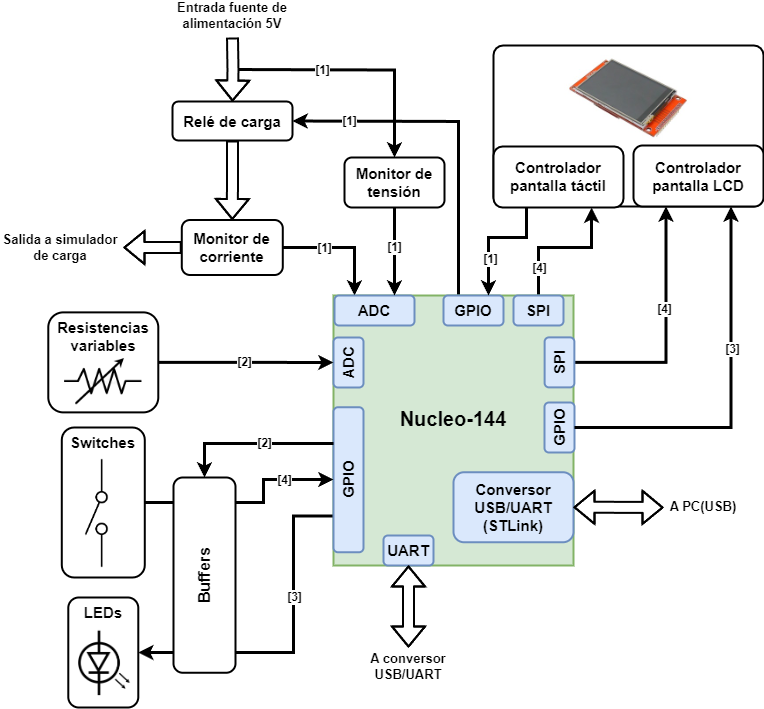
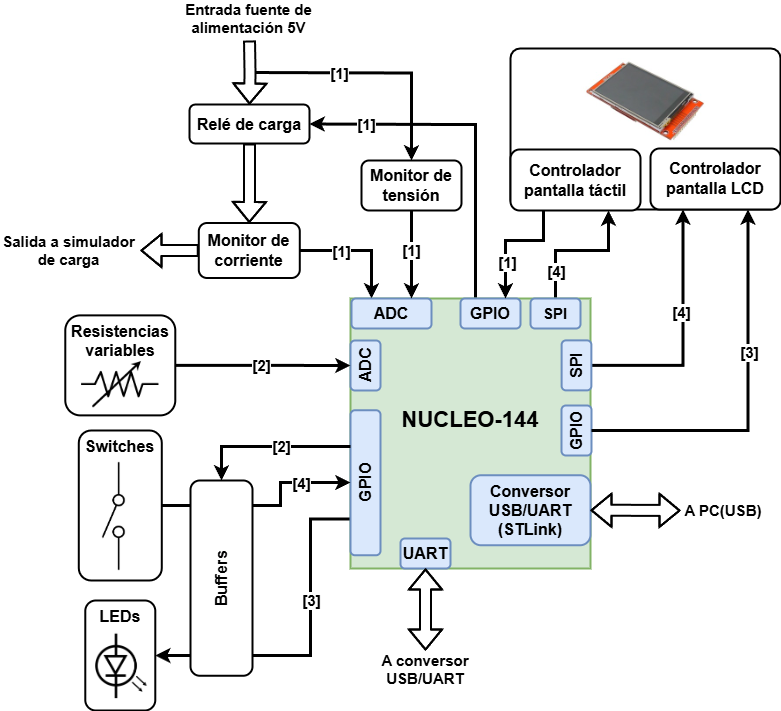
agregadas algunas correcciones de Celeste

Changed region(s): [[0.0, 0.0, 1.0, 1.0]]

diff --git a/Chapters/Chapter1.tex b/Chapters/Chapter1.tex
@@ -26,7 +26,9 @@ En este capítulo se explican las causas que dan origen al dispositivo desarroll
 
 La creciente demanda de mayores velocidades de transmisión de información en el ámbito aeroespacial, combinada con las limitaciones de la radiofrecuencia, favorecen el surgimiento de nuevas empresas enfocadas en el desarrollo de nuevas tecnologías capaces de superar estas barreras. Tal es el caso de la empresa Skyloom Global, que propone la creación de una red de satélites de órbita baja (LEO, del inglés, Low Earth Orbit) \citep{WEBSITE:LEO} utilizando enlaces ópticos de alta velocidad.
 
-El funcionamiento general de esta idea se basa en un satélite geoestacionario (órbita GEO) \citep{WEBSITE:GEO} al que los satélites en LEO transmiten la información (denominado \textit{uplink}) para luego descargar esta a una estación en Tierra (denominado \textit{downlink}). De esta forma se obtiene una alta disponibilidad de los datos ya que el satélite en GEO siempre tiene visión de la Tierra. Un diagrama de esta propuesta se muestra en la figura \ref{fig:propSky}.
+Esta red se basa en un satélite geoestacionario (órbita GEO) \citep{WEBSITE:GEO} al que los satélites en LEO transmiten la información (denominado \textit{uplink}) para luego descargar esta a una estación terrena (denominado \textit{downlink}). Como los satélites en LEO completan unas 11 vueltas sobre su órbita por día, no tienen una visión constante de la estación terrena, sino que solo están en contacto con ella durante determinadas ventanas de tiempo. Por lo tanto, si se quisiera descargar datos, esto solo sería posible durante esas ventanas, lo que genera un retraso considerable entre el momento en que el satélite obtiene la información y el momento en que se descarga a Tierra. 
+
+El satélite en GEO, en cambio, al tener el mismo período orbital que la Tierra, mantiene una visión continua de la estación terrena. De esta forma, al realizar el traspaso de información, se pueden obtener los datos con alta disponibilidad y mínimo retraso. Un diagrama de esta propuesta se muestra en la figura \ref{fig:propSky}.
 
 \begin{figure}[H]
 \centering

diff --git a/Chapters/Chapter3.tex b/Chapters/Chapter3.tex
@@ -54,7 +54,7 @@ La figura \ref{fig:estrucInt} muestra un diagrama completo de todo el hardware d
 
 \begin{figure}[H]
 \centering
-\includegraphics[width=0.9\textwidth]{./Figures/diagDisp.png}
+\includegraphics[width=0.84\textwidth]{./Figures/diagDisp.png}
 \caption{Diagrama completo del hardware implementado.}
 \label{fig:estrucInt}
 \end{figure}
@@ -329,7 +329,7 @@ La consola corre sobre la tarea del backend y puede inyectar eventos a la máqui
 
 Es importante aclarar que el dispositivo que se desarrolló e integró como solución a lo planteado en el capítulo 1 no es el producto final destinado a ser utilizado. La placa construida se puede interpretar como un prototipo de desarrollo o una versión de ingeniería, ya que cumple con dos objetivos principales: verificar el funcionamiento del hardware diseñado y desarrollar el firmware que se ejecutará en el microcontrolador. 
 
-La versión armada para este trabajo, además de incluir los mismos componentes que se pretenden usar en el producto final, cuenta con todo el hardware necesario para simular la interfaz electrónica del modelo del amplificador óptico. Esto permite generar todas las señales que se encuentran en el conector, tanto las analógicas como las digitales.
+La versión armada para este trabajo, incluye los mismos componentes previstos para el producto final y, además, incorpora el hardware necesario para emular la interfaz electrónica del modelo del amplificador óptico, lo que permite generar todas las señales del conector, tanto analógicas como digitales.
 
 Una vez alcanzados estos objetivos, la siguiente etapa consiste en desarrollar la placa del producto final, con el factor de forma adecuado para integrar y montar todos los componentes en una carcasa transportable. 
 

diff --git a/Chapters/Chapter4.tex b/Chapters/Chapter4.tex
@@ -173,7 +173,7 @@ En la figura \ref{fig:detecAlarm} se puede ver el estado de la pantalla LCD lueg
 
 \subsection{Detección de sobrecorriente}
 
-Al igual que para el caso de la detección de alarmas, la detección de una sobrecorriente también debe procesarse rápidamente. En este caso, se asoció la señal de alarma del monitor de corriente a una interrupción en el programa, permitiendo medir el tiempo de retardo entre el momento en que se activa dicha señal y el instante en que se desactiva la señal del relé de alimentación.
+Al igual que para el caso de la detección de alarmas, la detección de una sobrecorriente también debe procesarse rápidamente. En este caso, se asoció la señal de alarma del monitor de corriente a una interrupción en el programa, y se midió el retardo entre el momento en que se activa dicha señal y la desactivación de la señal que controla el relé de alimentación.
 
 En la figura \ref{fig:detecOC} se puede ver la conmutación de la señal que controla la activación del relé (canal D1 en rojo) luego de que la señal de alarma del monitor de corriente se activa (canal D0 en blanco). En este caso la alarma es activa en nivel bajo.
 
